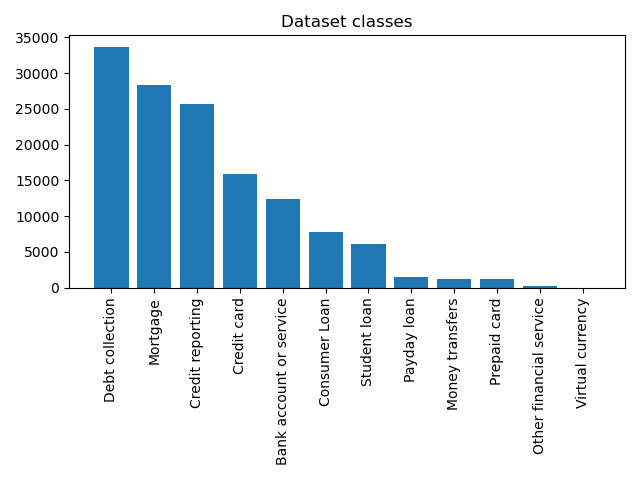
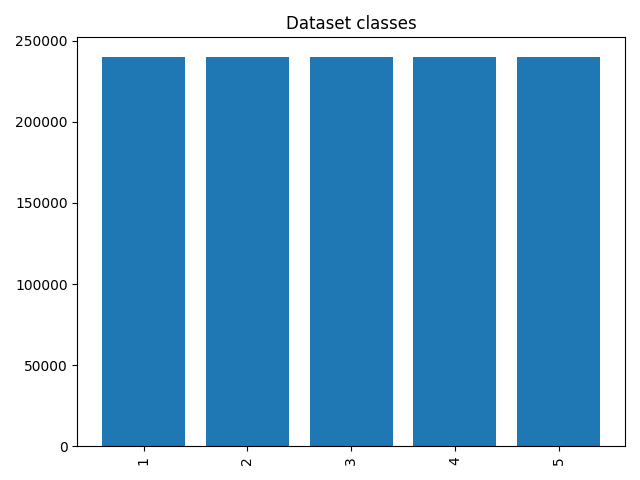
updating gitignore and values for amazon dataset

diff --git a/main.py b/main.py
@@ -6,30 +6,30 @@ import config_parameters as con
 
 if __name__ == '__main__':
     # Read and preprocess data
-    dataContainer = pre.TextData("data/customer-issues-train.csv", con.CONSUMER_MESSAGE_INDEX_TRAIN)
+    dataContainer = pre.TextData("data/train.csv", con.CONSUMER_MESSAGE_INDEX_TRAIN)
+    dataContainer.filterLanguage()
     rep.barPlotClassesAndSave(dataContainer.productTypes)
     dataContainer.cleanData()
     dataContainer.tokenizeData()
     dataContainer.paddingData()
     outputLabels = dataContainer.getOutputLabels()
     outputLabelsValues = dataContainer.getLabelsArray()
-    classWeights = dataContainer.getClassWeights()
 
     # Train and evaluate model
     # Define inputSize = 0 to load pretrained model
-    # inputSize = dataContainer.inputData.shape[1]
-    inputSize = 0
+    inputSize = dataContainer.inputData.shape[1]
+    # inputSize = 0
 
     NLPClassifier = cla.TextClassifier(inputSize)
     NLPClassifier.showSummary()
     NLPClassifier.activateSaveCheckpoints()
     NLPClassifier.trainClassifier(dataContainer.inputData, outputLabels, con.epochs,
-                                  con.batchSize, classWeights)
+                                  con.batchSize)
 
     # Get quality metrics and scores
     classes, scores, scoresFull = NLPClassifier.classifyData(dataContainer.inputData, con.batchSize)
     rep.showConfusionMatrix(classes, outputLabelsValues)
-    rep.showClassificationReport(classes, outputLabelsValues, list(dataContainer.productTypes.index))
+    rep.showClassificationReport(classes, outputLabelsValues, list(map(str, (dataContainer.productTypes.index))))
 
     # Saving figures and data
     NLPClassifier.saveModel('output/my_model.h5')
@@ -39,13 +39,14 @@ if __name__ == '__main__':
         rep.plotAccuracyHistory(NLPClassifier.history)
         rep.plotLossHistory(NLPClassifier.history)
 
-    dataTest = pre.TextData("data/customer-issues-test.csv", con.CONSUMER_MESSAGE_INDEX_TEST)
+    dataTest = pre.TextData("data/test.csv", con.CONSUMER_MESSAGE_INDEX_TEST)
+    dataTest.filterLanguage()
     dataTest.cleanData()
     dataTest.tokenizeData()
     dataTest.paddingData()
     classesTest, scoresTest, scoresFullTest = NLPClassifier.classifyData(dataTest.inputData, con.batchSize)
-    rep.generatePredictionTestCSV(dataTest, classesTest, dataContainer.productTypes.index)
-    rep.generateScoreTestCSV(dataTest, scoresFullTest)
+    # rep.generatePredictionTestCSV(dataTest, classesTest, dataContainer.productTypes.index)
+    # rep.generateScoreTestCSV(dataTest, scoresFullTest)
 
 
 

diff --git a/classifier.py b/classifier.py
@@ -16,7 +16,7 @@ class TextClassifier:
             self.model.add(SpatialDropout1D(0.25))
             self.model.add(LSTM(100, dropout=0.25, recurrent_dropout=0.25, return_sequences=True))
             self.model.add(LSTM(100, dropout=0.2, recurrent_dropout=0.2))
-            self.model.add(Dense(12, activation='softmax'))
+            self.model.add(Dense(5, activation='softmax'))
             self.model.compile(loss='categorical_crossentropy', optimizer='adam', metrics=['accuracy'])
             self.isPreTrained = False
         else:
@@ -31,18 +31,16 @@ class TextClassifier:
         self.checkpoint = ModelCheckpoint(checkpoints_filepath, monitor='val_accuracy', verbose=1,
                                           save_best_only=True, mode='max')
 
-    def trainClassifier(self, inputData, outputLabels, epochs, batchSize, class_weights):
+    def trainClassifier(self, inputData, outputLabels, epochs, batchSize):
         if self.isPreTrained is False:
             if self.checkpoint is None:
                 self.history = self.model.fit(inputData, outputLabels, epochs=epochs, batch_size=batchSize,
                                               validation_split=0.15,
-                                              class_weight=class_weights,
                                               callbacks=[EarlyStopping(monitor='val_loss', patience=3,
                                                                        min_delta=0.0001)])
             else:
                 self.history = self.model.fit(inputData, outputLabels, epochs=epochs, batch_size=batchSize,
                                               validation_split=0.15,
-                                              class_weight=class_weights,
                                               callbacks=[self.checkpoint,
                                                          EarlyStopping(monitor='val_loss', patience=3,
                                                                        min_delta=0.0001)])

diff --git a/preprocessing.py b/preprocessing.py
@@ -16,12 +16,16 @@ class TextData:
         self.listColumnNames = list(self.trainData.columns)
         self.productColumnName = self.listColumnNames[con.PRODUCT_INDEX]
         self.consumerMessageColumnName = self.listColumnNames[CONSUMER_MESSAGE_INDEX]
+        self.languageMessageColumnName = self.listColumnNames[con.LANGUAGE_INDEX]
         self.productTypes = self.trainData[self.productColumnName].value_counts()
         self.tokenizer = None
         self.inputData = None
         self.outputLabels = None
         self.outputLabelsValues = None
         self.classWeights = None
+
+    def filterLanguage(self):
+        self.trainData = self.originalData[self.originalData[self.languageMessageColumnName] == con.LANGUAGE_SELECTED]
 
     def cleanData(self):
         self.trainData = self.trainData.reset_index(drop=True)

diff --git a/config_parameters.py b/config_parameters.py
@@ -1,11 +1,19 @@
 
 # CSV related params
-CSV_DATA_TRAIN_PATH = "data/customer-issues-train.csv"
-CSV_DATA_TEST_PATH = "data/customer-issues-train.csv"
-PRODUCT_INDEX = 1
+CSV_DATA_TRAIN_PATH = "data/train.csv"
+CSV_DATA_TEST_PATH = "data/test.csv"
+PRODUCT_INDEX = 4  # output
+LANGUAGE_INDEX = 7
+LANGUAGE_SELECTED = "en"
+#  en -> english
+#  de -> deutchsland
+#  es -> español
+#  fr -> french
+#  ja -> japanese
+#  zh -> chinese
 
-CONSUMER_MESSAGE_INDEX_TRAIN = 5
-CONSUMER_MESSAGE_INDEX_TEST = 1
+CONSUMER_MESSAGE_INDEX_TRAIN = 5  # input
+CONSUMER_MESSAGE_INDEX_TEST = 5  # input
 
 # Word2Vec params
 MAX_NB_WORDS = 50000
@@ -13,5 +21,5 @@ MAX_SEQUENCE_LENGTH = 250
 EMBEDDING_DIM = 100
 
 # NLP model train params
-epochs = 2
-batchSize = 1024
+epochs = 10
+batchSize = 512

diff --git a/reporting.py b/reporting.py
@@ -59,7 +59,7 @@ def saveHistory(history):
 
 
 def generatePredictionTestCSV(dataTest, classes, classesNames):
-    testResults = dataTest.originalData[['consumer-message']]
+    testResults = dataTest.trainData[['review_body']]
     target = []
     for row in classes:
         target.append(classesNames[classes[row]])
@@ -68,7 +68,7 @@ def generatePredictionTestCSV(dataTest, classes, classesNames):
 
 
 def generateScoreTestCSV(dataTest, scoresFull):
-    testResults = dataTest.originalData[['complaint-id']]
+    testResults = dataTest.originalData[['review_id']]
     for col in range(scoresFull.shape[1]):
         testResults[str(col)] = scoresFull[:, col].tolist()
     testResults.to_csv('output/scores_test.csv')
